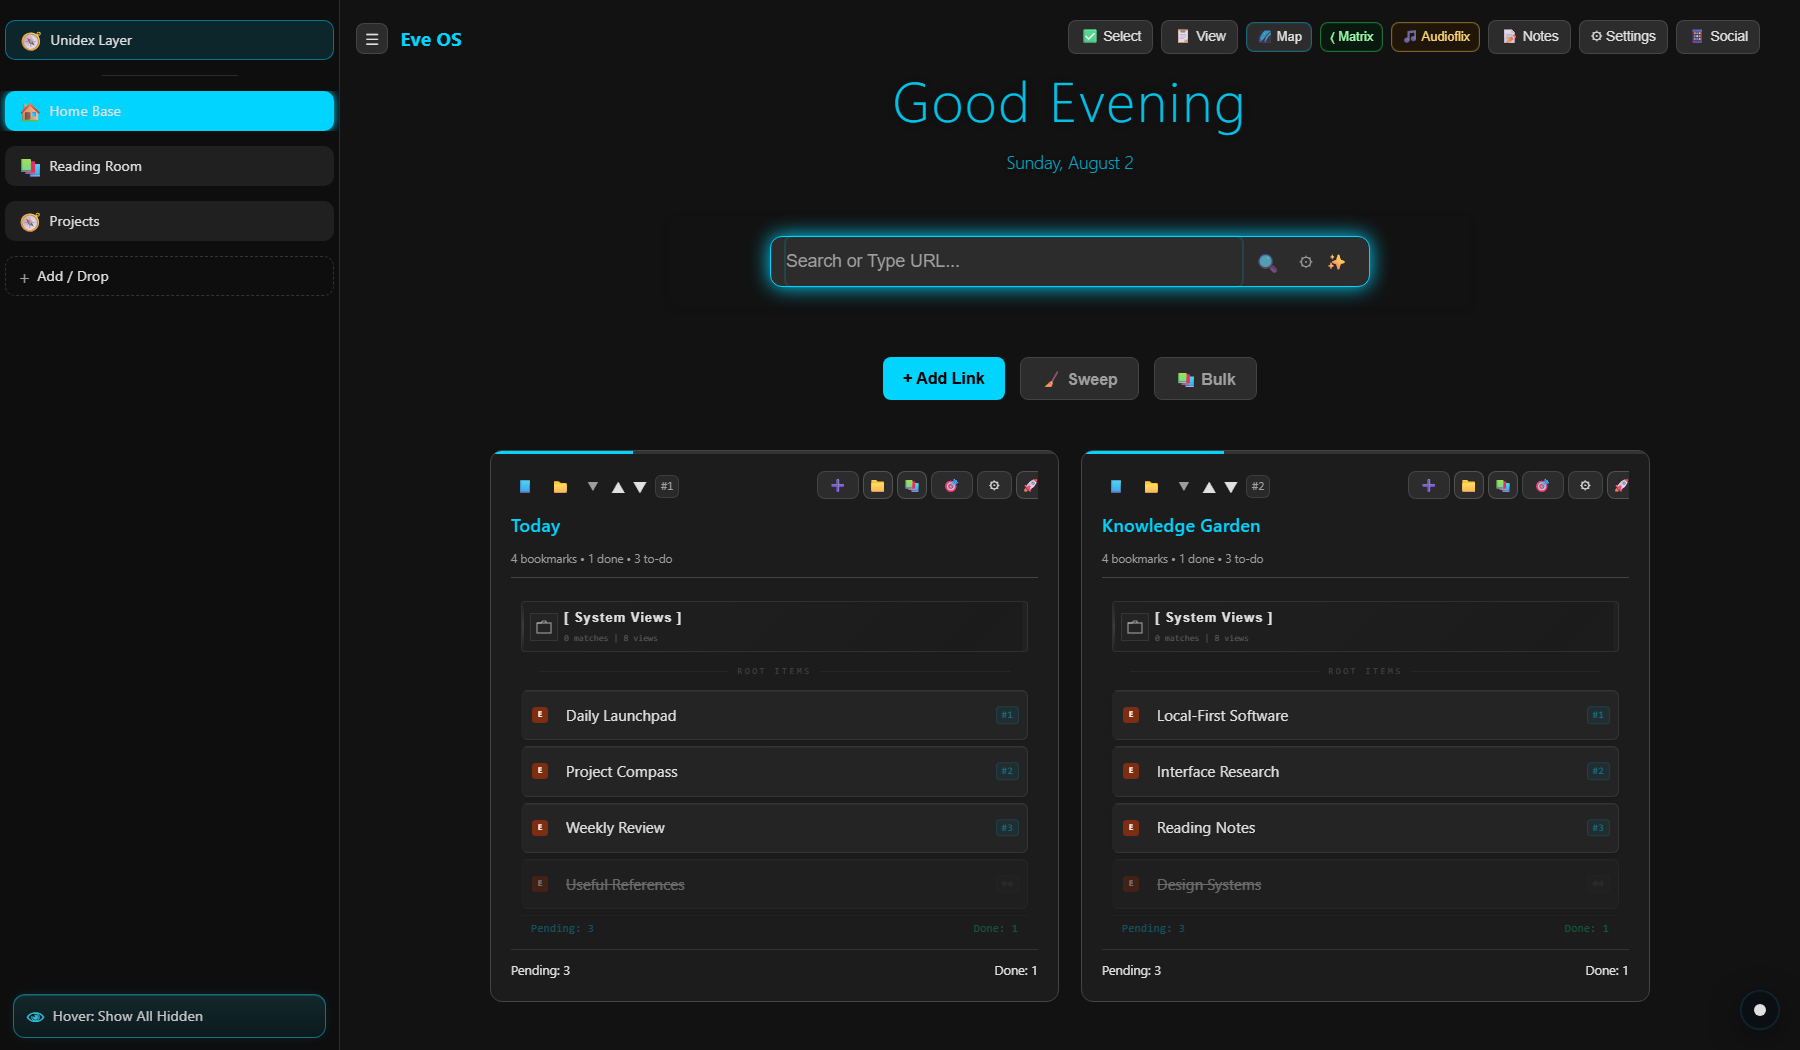
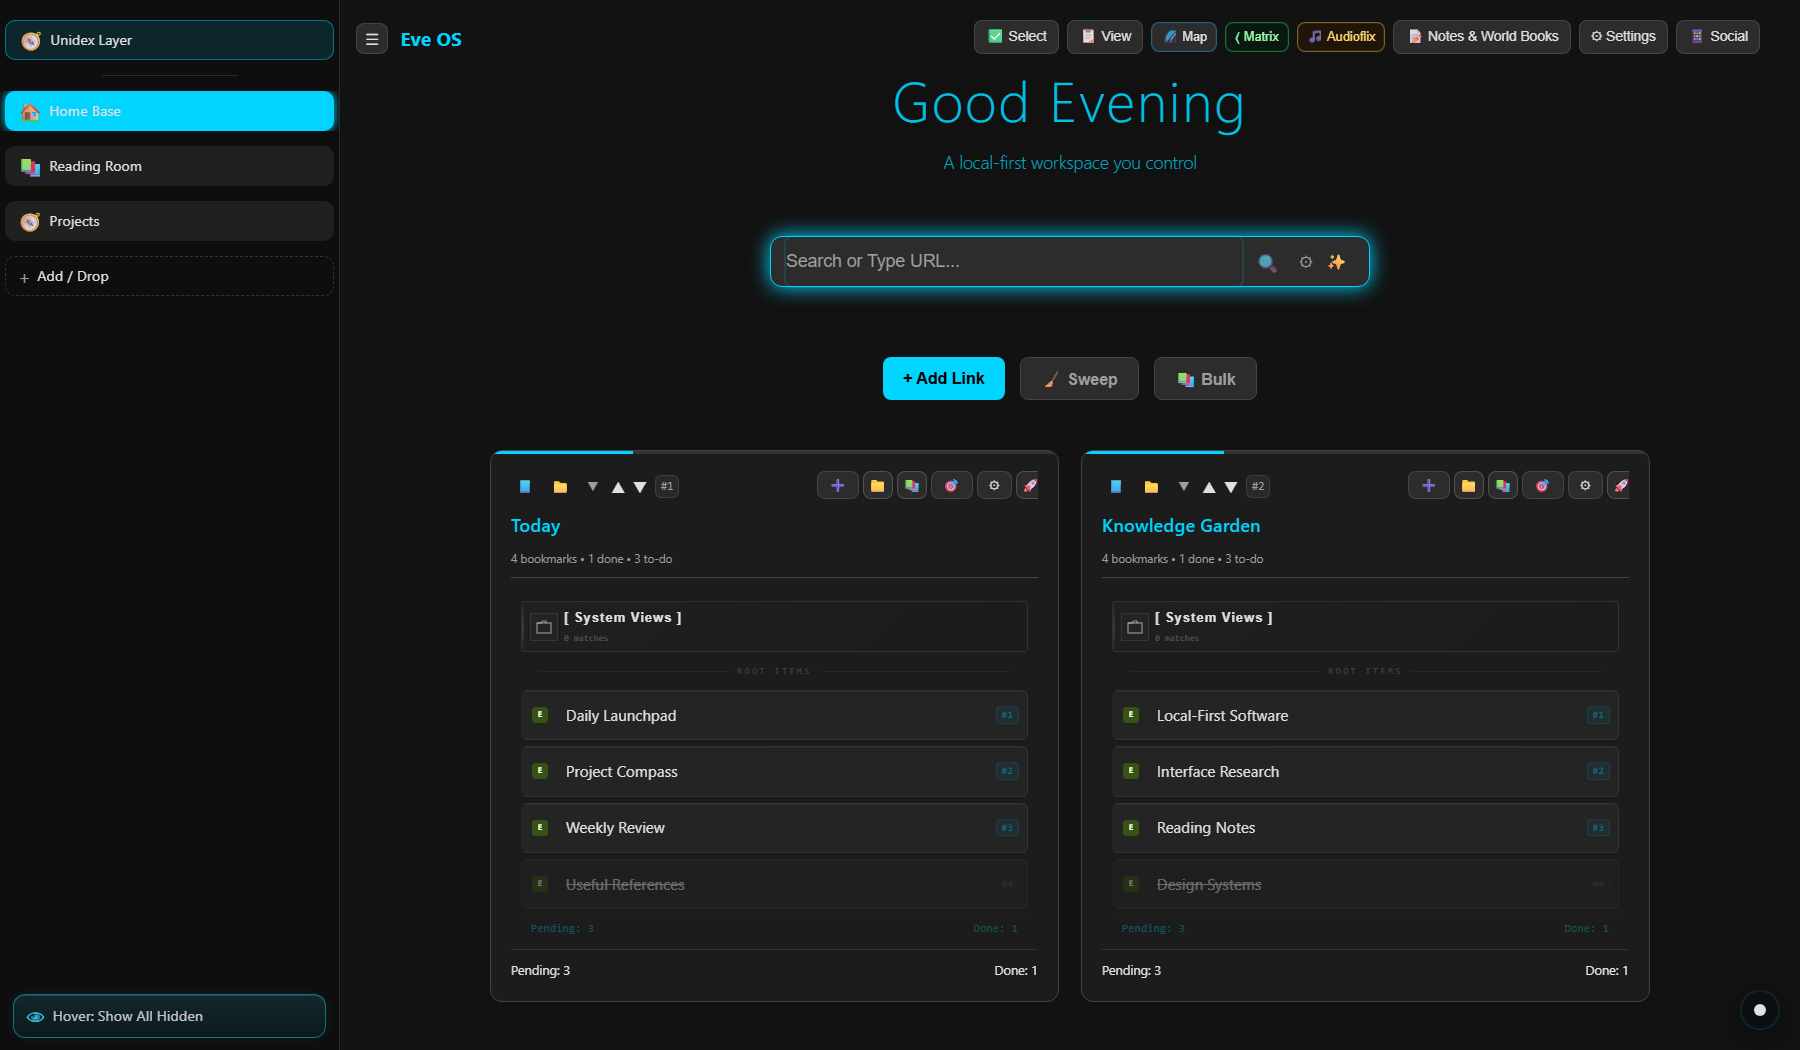
docs: refresh current EveOS dashboard screenshot

diff --git a/tools/docs/capture-readme-dashboard.js b/tools/docs/capture-readme-dashboard.js
@@ -1,0 +1,123 @@
+const path = require('path');
+const { launchChromiumOrConnect } = require('../smoke/playwright-browser');
+
+const REPO_ROOT = path.resolve(__dirname, '..', '..');
+const FILE_URL = 'file:///' + path.join(REPO_ROOT, 'EveOS.html').replace(/\\/g, '/');
+const OUTPUT_PATH = path.join(REPO_ROOT, 'docs', 'screenshots', 'eveos-dashboard.png');
+
+function buildSeed() {
+    const links = [
+        ['today-1', 'Daily Launchpad', 'Today', false],
+        ['today-2', 'Project Compass', 'Today', false],
+        ['today-3', 'Weekly Review', 'Today', false],
+        ['today-4', 'Useful References', 'Today', true],
+        ['garden-1', 'Local-First Software', 'Knowledge Garden', false],
+        ['garden-2', 'Interface Research', 'Knowledge Garden', false],
+        ['garden-3', 'Reading Notes', 'Knowledge Garden', false],
+        ['garden-4', 'Design Systems', 'Knowledge Garden', true]
+    ].map(([id, title, category, done]) => ({
+        id,
+        title,
+        category,
+        done,
+        workspace: 'home',
+        url: `https://example.invalid/${id}`
+    }));
+
+    return {
+        links,
+        config: {
+            activeWorkspace: 'home',
+            accent: '#00d4ff',
+            background: '',
+            viewMode: 'grid',
+            headerMode: 'greeting',
+            headerControls: {
+                showDate: true,
+                use24HourClock: false,
+                includeName: false,
+                morningMessage: 'Good Morning',
+                afternoonMessage: 'Good Afternoon',
+                eveningMessage: 'Good Evening',
+                fontFamily: '-apple-system, BlinkMacSystemFont, "Segoe UI", sans-serif',
+                fontSize: 56,
+                letterSpacing: 2,
+                textColor: '',
+                effect: 'none',
+                effectColor: '#00d4ff'
+            },
+            sidebarExpanded: true,
+            sidebarHidden: false,
+            sidebarGroups: [],
+            sidebarOrderMode: 'auto',
+            sidebarManualOrder: { root: [], parents: {} },
+            showInactiveTabs: false,
+            workspaces: [
+                { id: 'home', name: 'Home Base', icon: '\u{1F3E0}', subTabs: [] },
+                { id: 'reading', name: 'Reading Room', icon: '\u{1F4DA}', subTabs: [] },
+                { id: 'projects', name: 'Projects', icon: '\u{1F9ED}', subTabs: [] }
+            ],
+            categoryOrder: ['Today', 'Knowledge Garden'],
+            categoryOrderByWorkspace: { home: ['Today', 'Knowledge Garden'] },
+            collapsed: [],
+            collapsedTabs: [],
+            foldersCollapsed: [],
+            linksCollapsed: [],
+            hideStats: [],
+            scrollableCategories: false,
+            modularStateSyncEnabled: false,
+            geminiLiveLinkEnabled: false
+        },
+        bookmarkFolders: {},
+        quickPins: []
+    };
+}
+
+(async () => {
+    const { browser } = await launchChromiumOrConnect({ headless: true });
+    const context = await browser.newContext({
+        viewport: { width: 1800, height: 1050 },
+        deviceScaleFactor: 1,
+        colorScheme: 'dark'
+    });
+    const seed = buildSeed();
+
+    await context.addInitScript((payload) => {
+        localStorage.clear();
+        localStorage.setItem('eveV22Data', JSON.stringify(payload.links));
+        localStorage.setItem('eveV22Config', JSON.stringify(payload.config));
+        localStorage.setItem('eveV22BookmarkFolders', JSON.stringify(payload.bookmarkFolders));
+        localStorage.setItem('eveV22QuickPins', JSON.stringify(payload.quickPins));
+        localStorage.setItem('eveTheme', 'dark');
+    }, seed);
+
+    const page = await context.newPage();
+    try {
+        await page.goto(FILE_URL, { waitUntil: 'domcontentloaded', timeout: 120000 });
+        await page.waitForFunction(() => (
+            window.__eveCoreDataLoaded === true
+            && document.querySelectorAll('.category-card').length === 2
+            && document.querySelectorAll('.category-card [data-link-id]').length === 8
+            && document.querySelector('.topbar-notes-world-book-btn')?.textContent.includes('Notes & World Books')
+        ), undefined, { timeout: 120000 });
+
+        await page.evaluate(() => {
+            const display = document.getElementById('main-display');
+            const date = document.getElementById('date-area');
+            if (display) display.textContent = 'Good Evening';
+            if (date) date.textContent = 'A local-first workspace you control';
+            document.querySelectorAll('a[href*="example.invalid"]').forEach((anchor) => {
+                anchor.removeAttribute('target');
+            });
+        });
+
+        await page.screenshot({ path: OUTPUT_PATH, fullPage: false });
+        console.log(`Captured ${OUTPUT_PATH}`);
+    } finally {
+        await context.close();
+        await browser.close();
+    }
+})().catch((error) => {
+    console.error(error && error.stack ? error.stack : error);
+    process.exit(1);
+});
